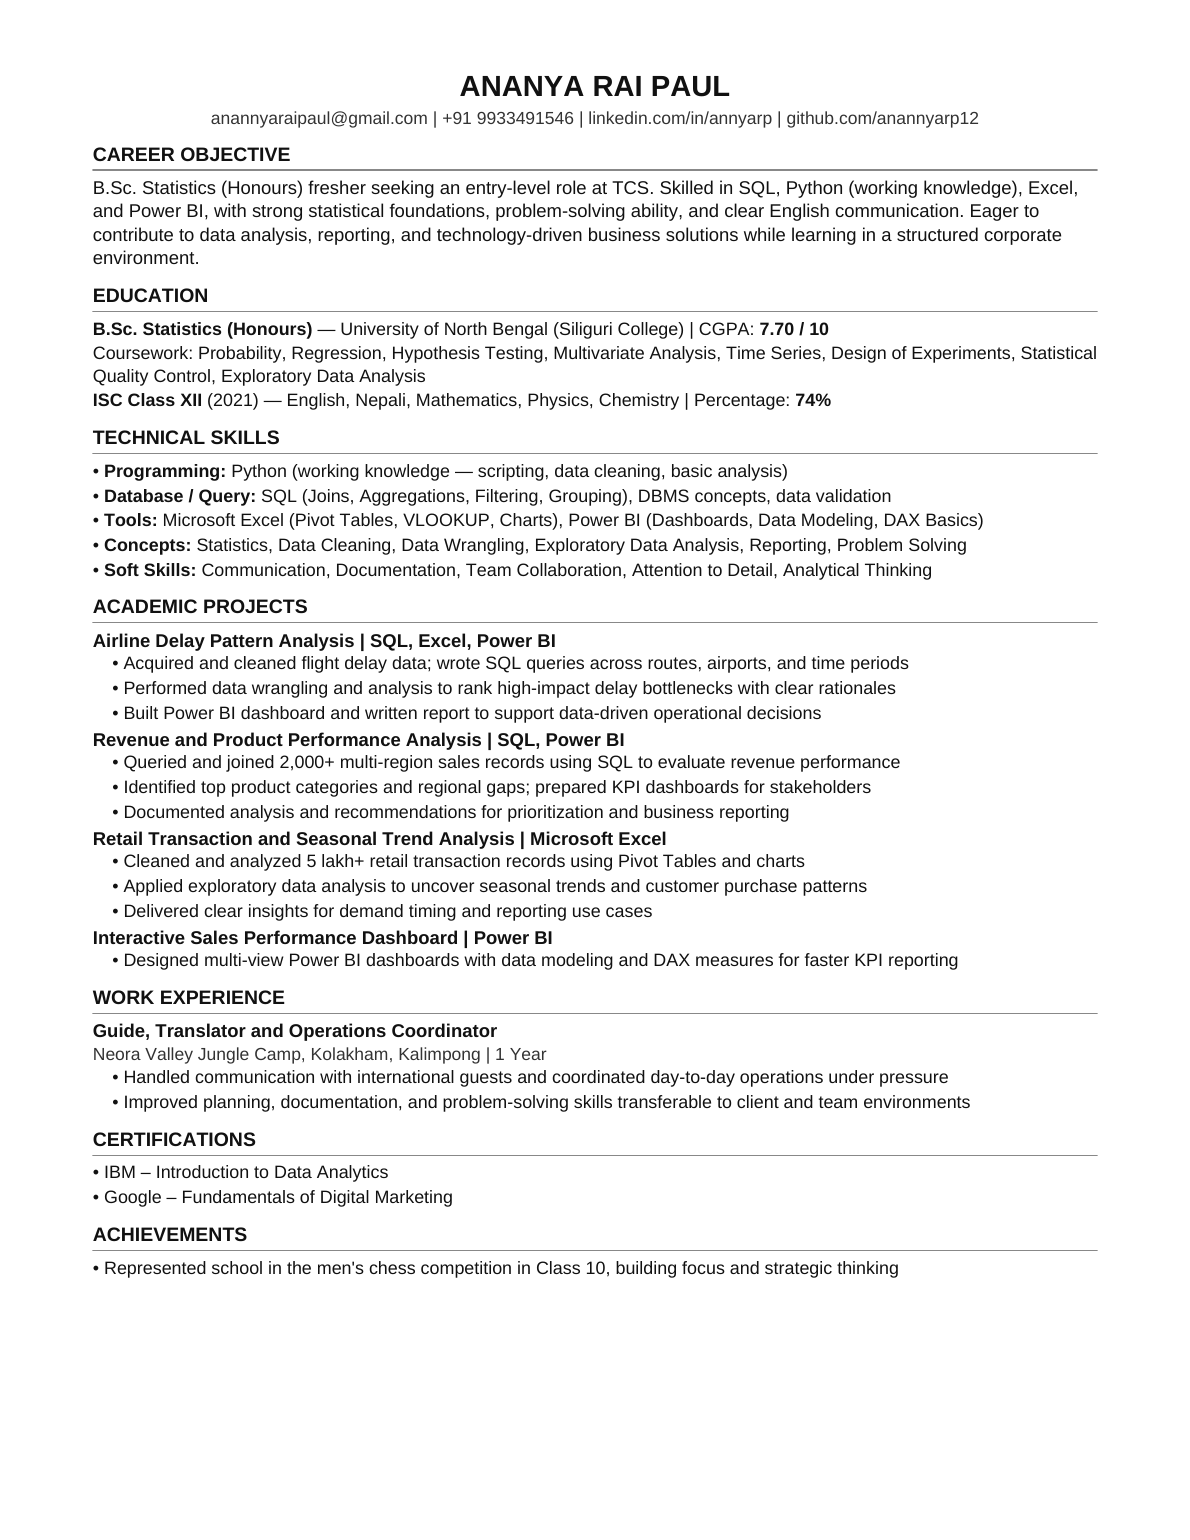
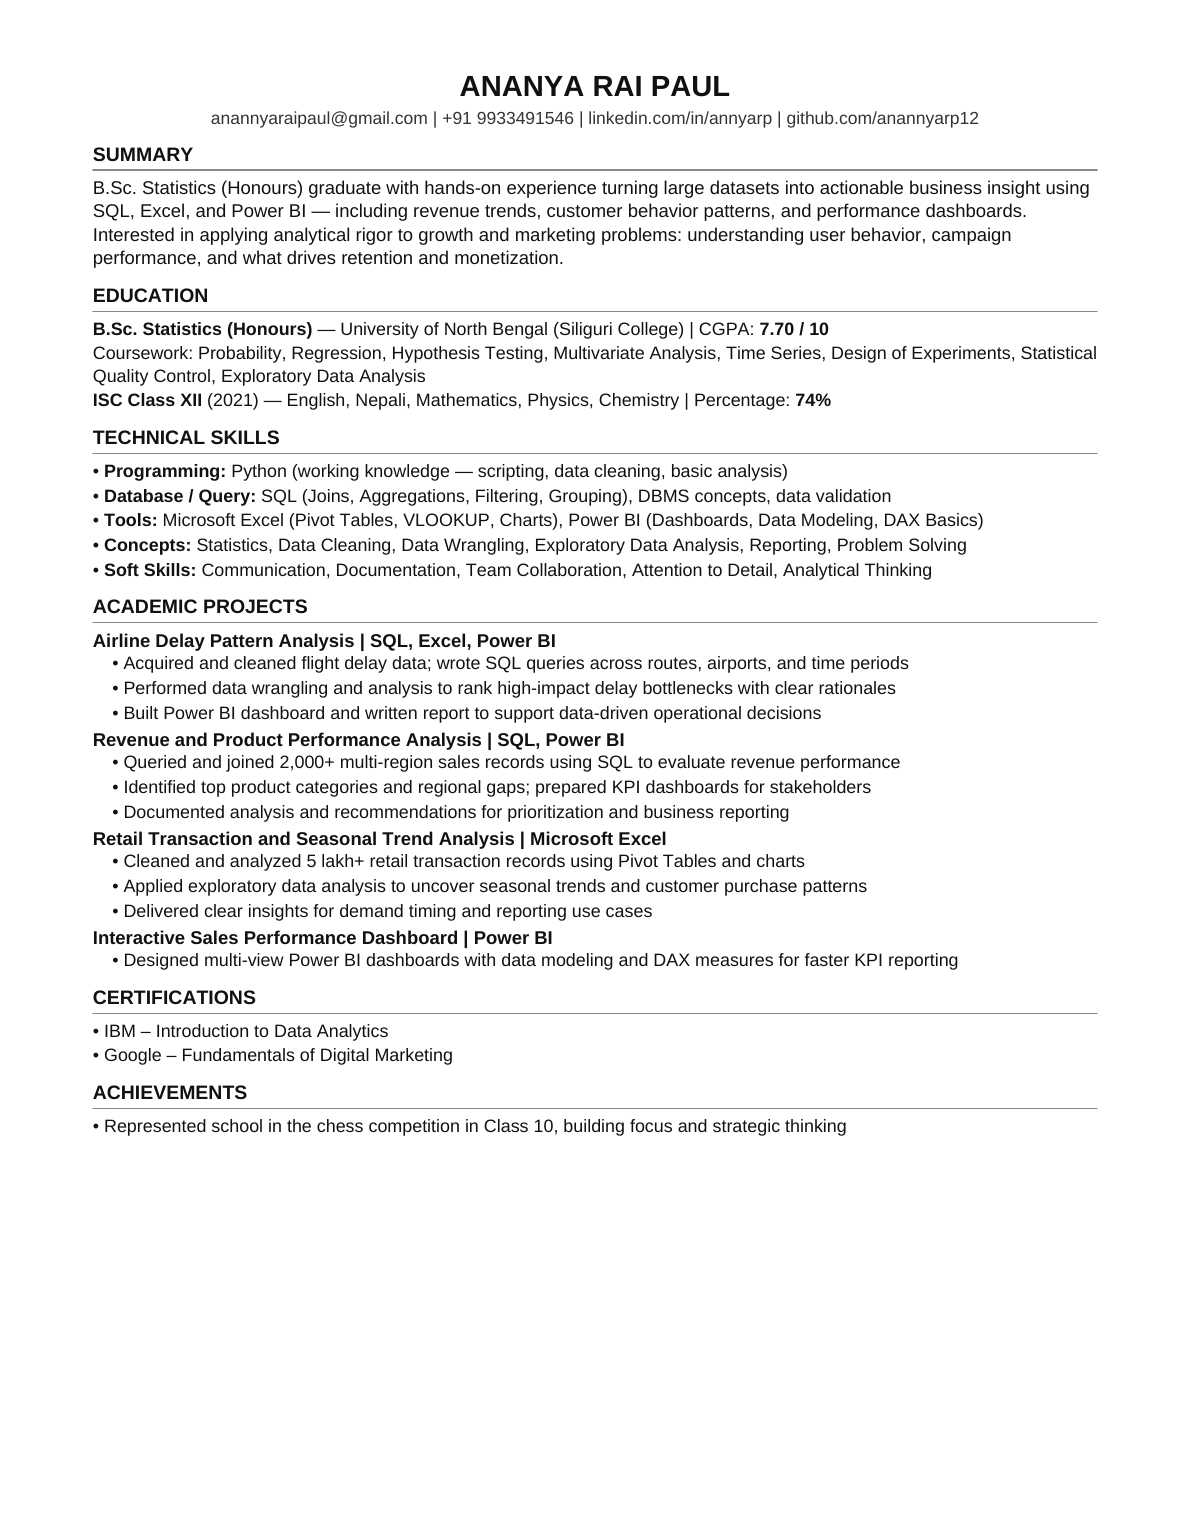
Update TCS resume: remove experience, restore summary
Drop work experience to match the application form, restore the
original analytics summary, and simplify the chess achievement line.

Changed region(s): [[0.0622, 0.6234, 0.8084, 0.8416], [0.0622, 0.0935, 0.9017, 0.187]]

diff --git a/resume/generate_tcs_resume.py b/resume/generate_tcs_resume.py
@@ -57,15 +57,15 @@ def build():
         )
     )
 
-    story.append(Paragraph("CAREER OBJECTIVE", st["Section"]))
+    story.append(Paragraph("SUMMARY", st["Section"]))
     story.append(rule())
     story.append(
         Paragraph(
-            "B.Sc. Statistics (Honours) fresher seeking an entry-level role at TCS. Skilled in SQL, "
-            "Python (working knowledge), Excel, and Power BI, with strong statistical foundations, "
-            "problem-solving ability, and clear English communication. Eager to contribute to data "
-            "analysis, reporting, and technology-driven business solutions while learning in a "
-            "structured corporate environment.",
+            "B.Sc. Statistics (Honours) graduate with hands-on experience turning large datasets into "
+            "actionable business insight using SQL, Excel, and Power BI — including revenue trends, "
+            "customer behavior patterns, and performance dashboards. Interested in applying analytical "
+            "rigor to growth and marketing problems: understanding user behavior, campaign performance, "
+            "and what drives retention and monetization.",
             st["Body"],
         )
     )
@@ -138,16 +138,6 @@ def build():
         )
     )
 
-    story.append(Paragraph("WORK EXPERIENCE", st["Section"]))
-    story.append(rule())
-    story.append(Paragraph("Guide, Translator and Operations Coordinator", st["RoleTitle"]))
-    story.append(Paragraph("Neora Valley Jungle Camp, Kolakham, Kalimpong | 1 Year", st["OrgMeta"]))
-    for b in [
-        "Handled communication with international guests and coordinated day-to-day operations under pressure",
-        "Improved planning, documentation, and problem-solving skills transferable to client and team environments",
-    ]:
-        story.append(bullet(b, st))
-
     story.append(Paragraph("CERTIFICATIONS", st["Section"]))
     story.append(rule())
     story.append(Paragraph("• IBM – Introduction to Data Analytics", st["Line"]))
@@ -157,7 +147,7 @@ def build():
     story.append(rule())
     story.append(
         Paragraph(
-            "• Represented school in the men's chess competition in Class 10, building focus and strategic thinking",
+            "• Represented school in the chess competition in Class 10, building focus and strategic thinking",
             st["Line"],
         )
     )
